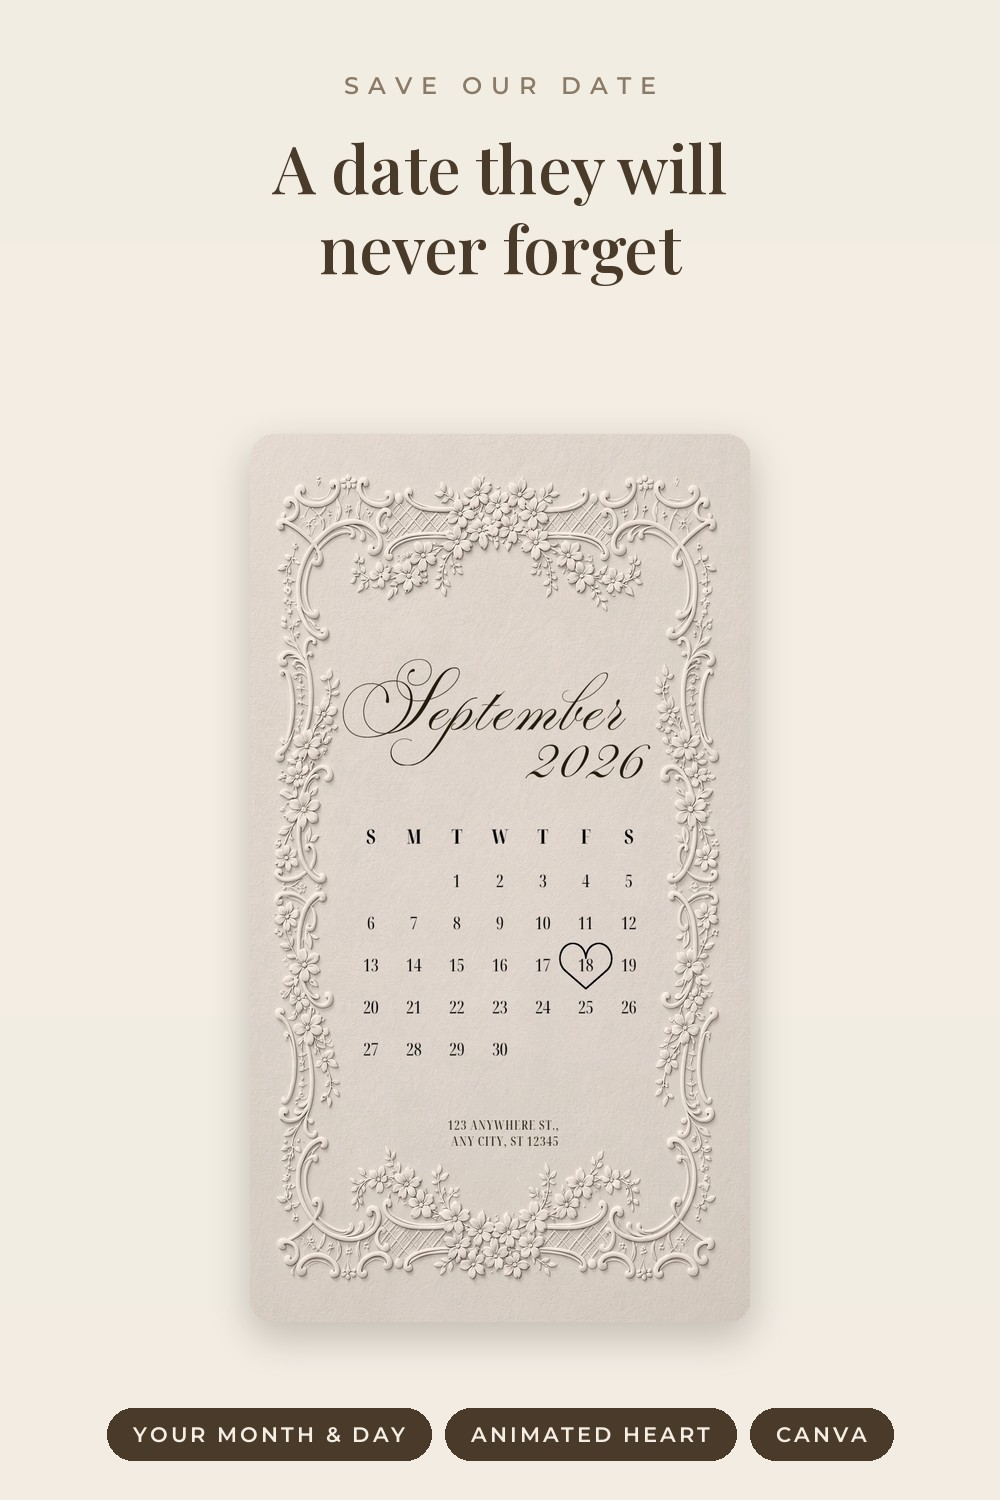
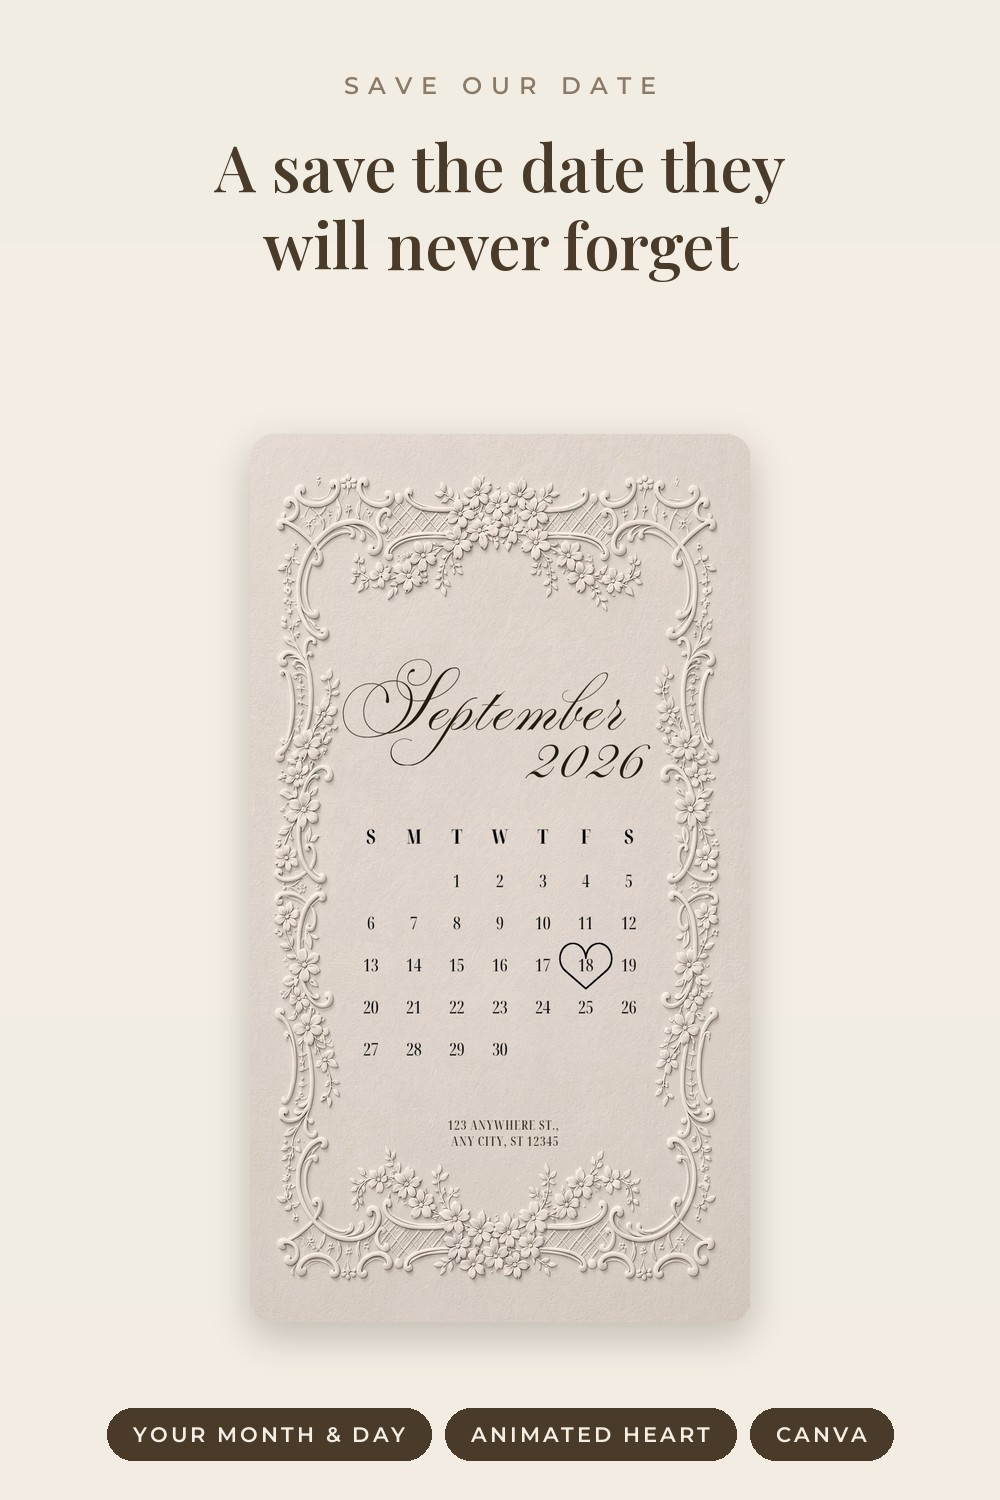
Calendar pin: headline 'A save the date they will never forget'
Claude-Session: https://claude.ai/code/session_011kmtsDqSjDmuRsYCGyqzjP

Changed region(s): [[0.248, 0.092, 0.775, 0.184], [0.217, 0.092, 0.248, 0.1227]]

diff --git a/pins/ivory-frame-save-the-date/make_pins.py b/pins/ivory-frame-save-the-date/make_pins.py
@@ -117,7 +117,7 @@ def pin_calendar():
     img = canvas().convert("RGBA")
     d = ImageDraw.Draw(img)
     eyebrow(d, 70, "SAVE OUR DATE")
-    y = headline(d, 122, ["A date they will", "never forget"], 66)
+    y = headline(d, 122, ["A save the date they", "will never forget"], 64)
     crop = fit_frame("calendar", 500)
     box = (250, 434, 250 + crop.width, 434 + crop.height)
     img = shadow_card(img, box)
